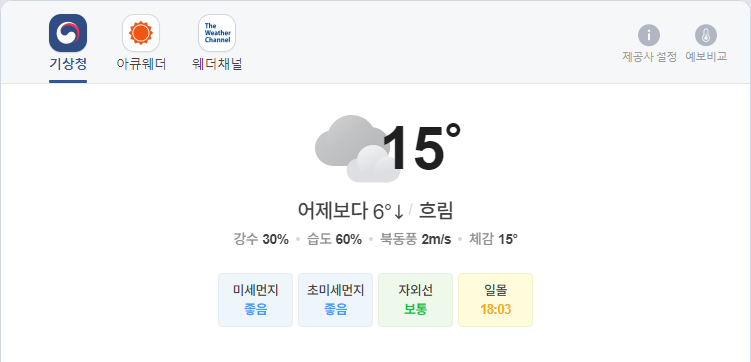
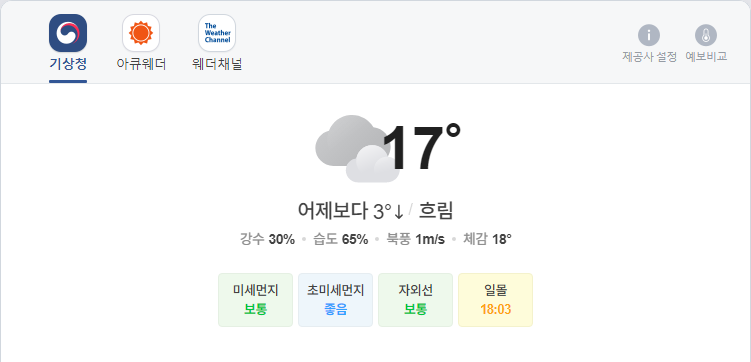
update result

diff --git a/README.md b/README.md
@@ -1,5 +1,5 @@
-##  2021-10-11 12:07:39   월요일 
-##### 날씨   -   어제보다 6° 낮아요흐림  
+##  2021-10-11 16:02:48   월요일 
+##### 날씨   -   어제보다 3° 낮아요흐림  
 <center><img src="../img/naver_weather_week.png"></center>
 ----
 ----
@@ -16,8 +16,8 @@
 <tr align = "right" > <td>DOW</td><td>34,746.25</td><td>-8.69</td><td><font size="3" color="blue" >-0.03%</font></td><td><font size="3" color="black">0</font></td><td><font size="3" color="black">0</font></td><td>0</td>  </tr>
 <tr align = "right" > <td>NASDAQ</td><td>14,579.54</td><td>-74.48</td><td><font size="3" color="blue" >-0.51%</font></td><td><font size="3" color="black">0</font></td><td><font size="3" color="black">0</font></td><td>0</td>  </tr>
 <tr align = "right" > <td>S&P</td><td>4,391.34</td><td>-8.42</td><td><font size="3" color="blue" >-0.19%</font></td><td><font size="3" color="black">0</font></td><td><font size="3" color="black">0</font></td><td>0</td>  </tr>
-<tr align = "right" > <td>SHANHAI</td><td>3,603.33</td><td>11.16</td><td><font size="3" color="red" >0.31%</font></td><td><font size="3" color="black">0</font></td><td><font size="3" color="black">0</font></td><td>0</td>  </tr>
-<tr align = "right" > <td>INDIA</td><td>60,059.06</td><td>381.23</td><td><font size="3" color="red" >0.64%</font></td><td><font size="3" color="black">0</font></td><td><font size="3" color="black">0</font></td><td>0</td>  </tr>
+<tr align = "right" > <td>SHANHAI</td><td>3,586.92</td><td>-5.24</td><td><font size="3" color="blue" >-0.15%</font></td><td><font size="3" color="black">0</font></td><td><font size="3" color="black">0</font></td><td>0</td>  </tr>
+<tr align = "right" > <td>INDIA</td><td>60,336.98</td><td>277.92</td><td><font size="3" color="red" >0.46%</font></td><td><font size="3" color="black">0</font></td><td><font size="3" color="black">0</font></td><td>0</td>  </tr>
 </table>
 ----
 ##### 시장
